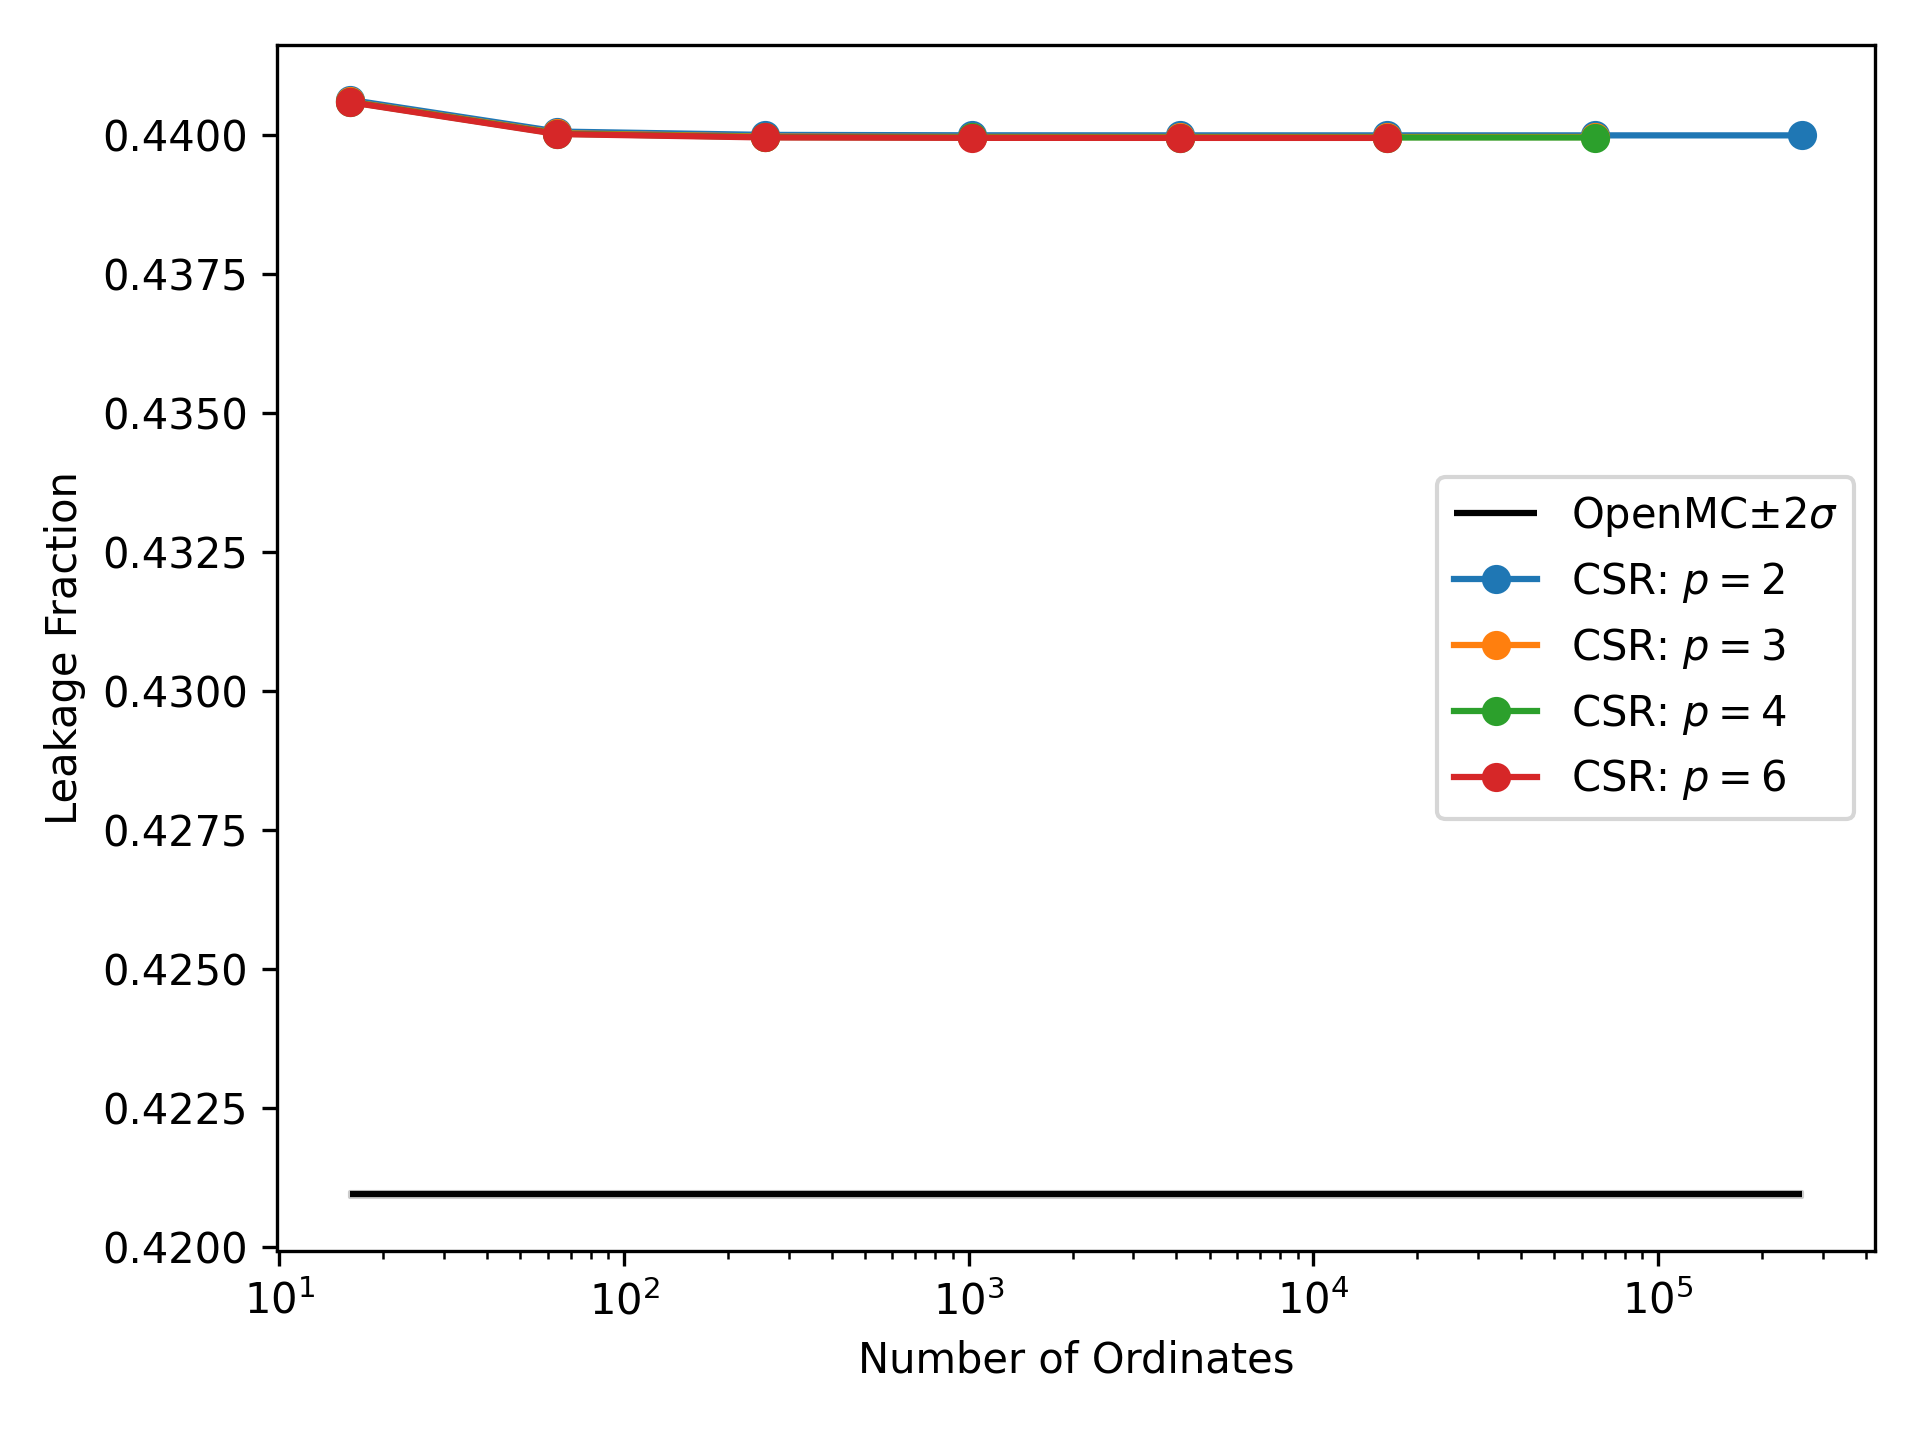
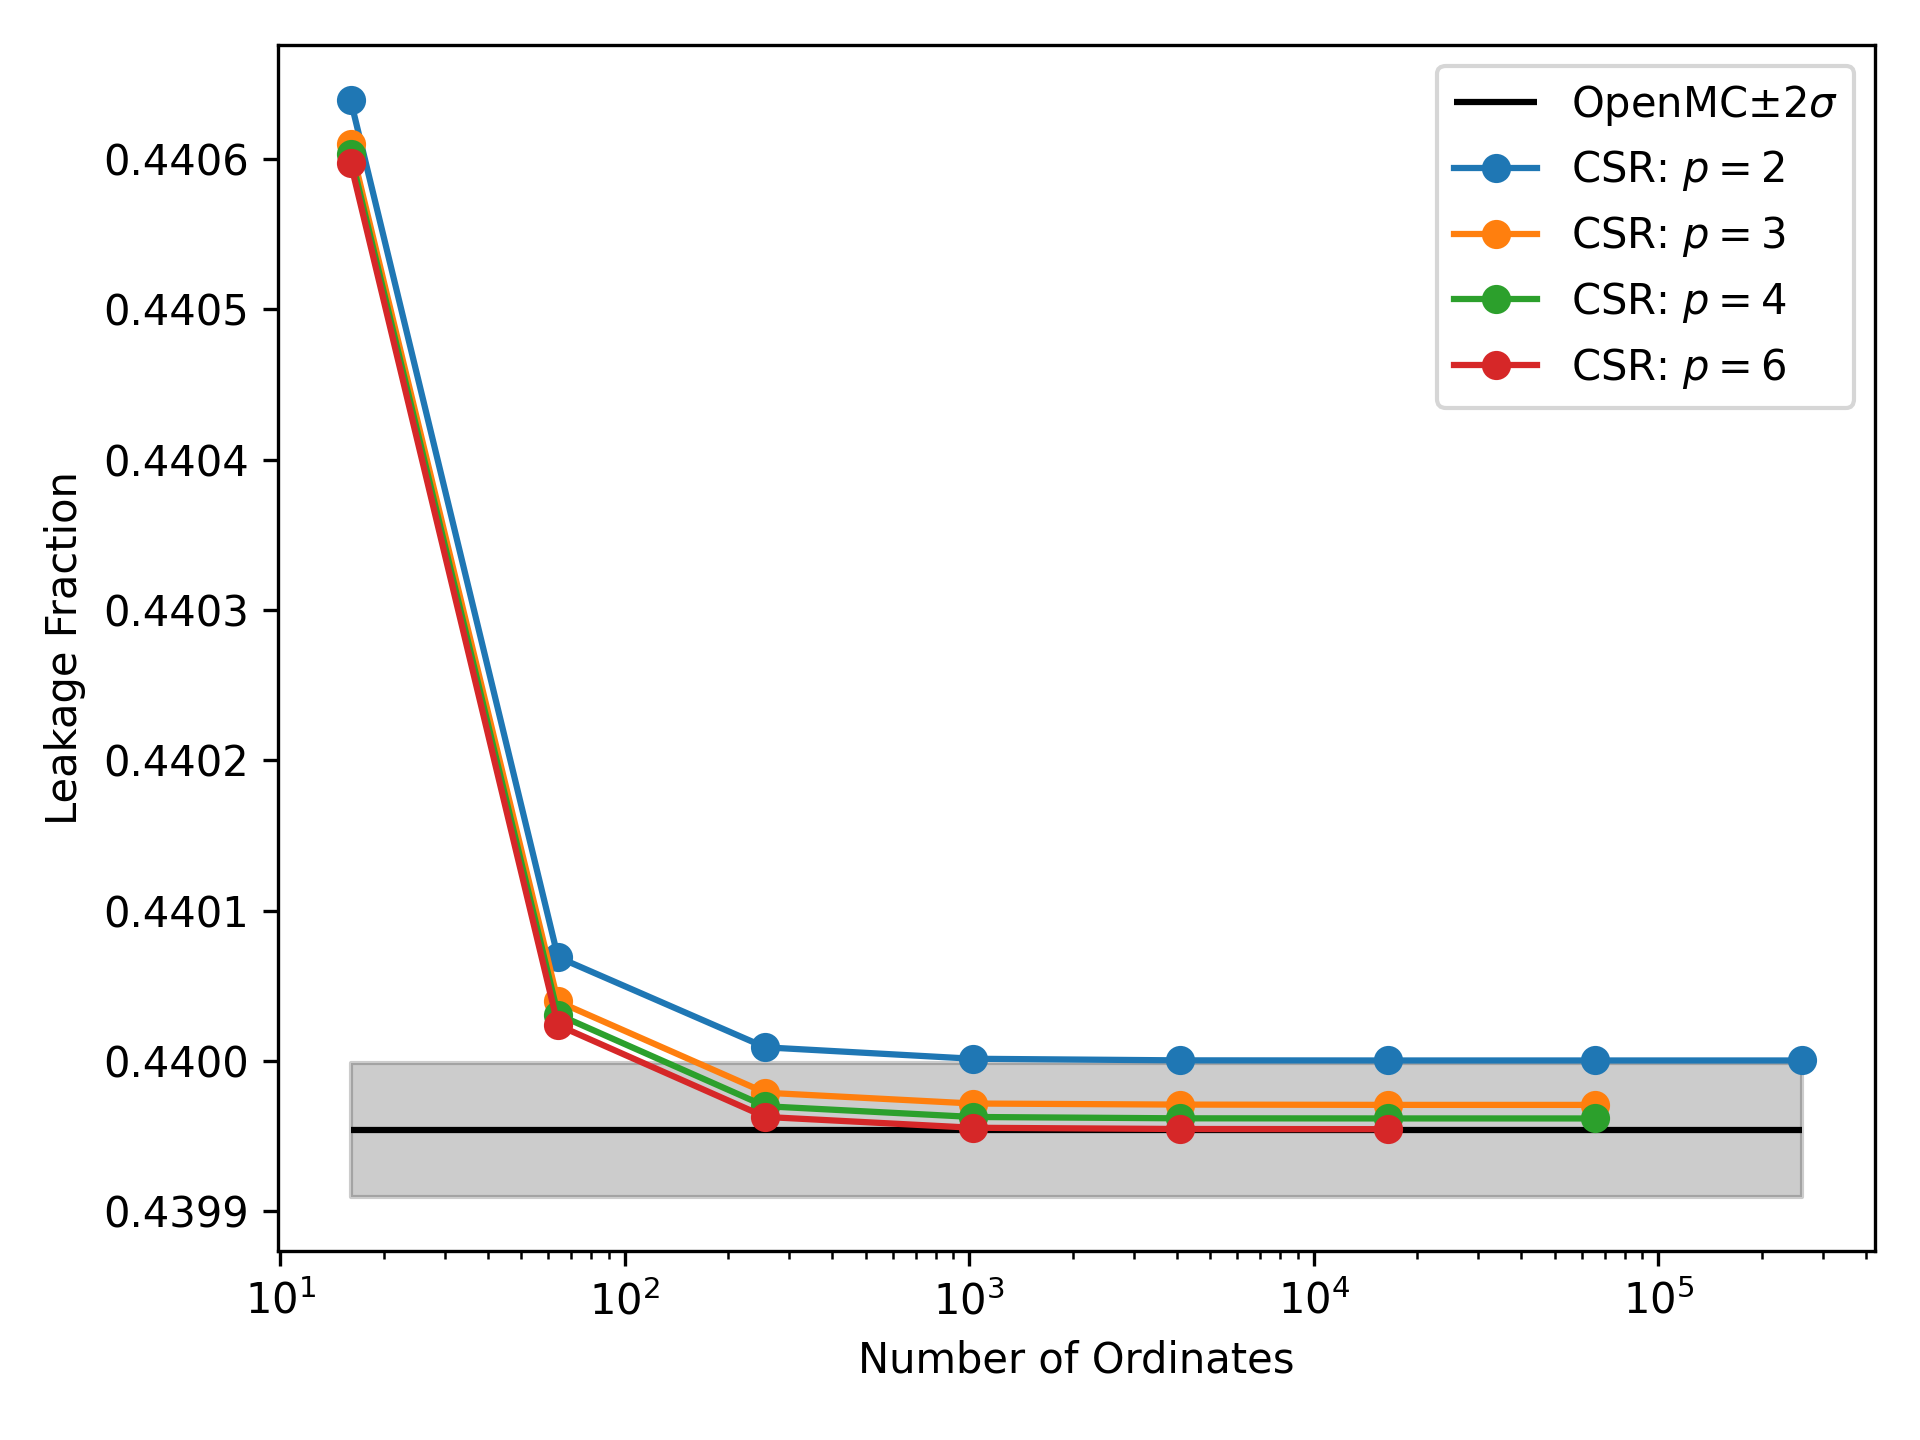
minor fix

diff --git a/fixed_source/circle/plotting.py b/fixed_source/circle/plotting.py
@@ -41,7 +41,7 @@ if __name__ == "__main__":
     (dir / "direction/figs").mkdir(parents=True, exist_ok=True)
 
     # Solutions from OpenMC
-    leakage_frac_openmc = [0.42095701399999963, 2.2038687252709062e-05]
+    leakage_frac_openmc = [0.43995423399999983, 2.2245143201699137e-05]
 
     num_ordinates = [16, 64, 256, 1024, 4096, 16384, 65536, 262144]
     degrees = [2, 3, 4, 6]
